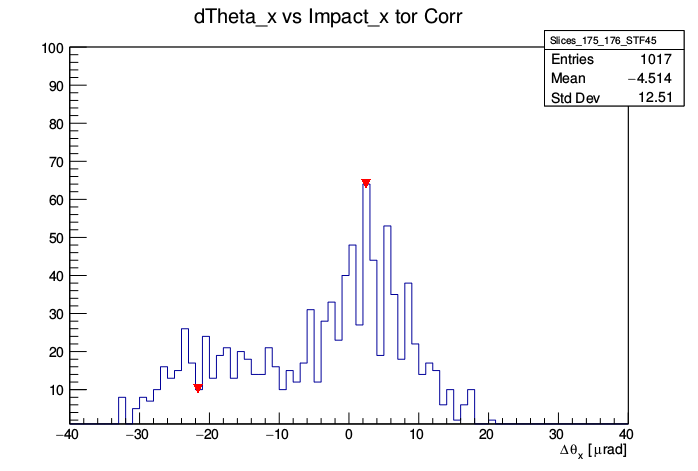
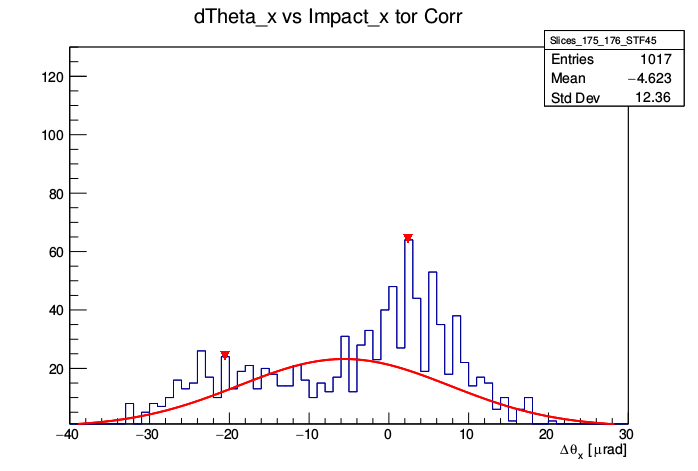
Various stuff with smoothing, then I will try partial range peak fitting

diff --git a/src/analisi_VRtoAM.C b/src/analisi_VRtoAM.C
@@ -1,4 +1,4 @@
-/*
+ /*
  * analisi_VRtoAM.C
  *
  *  Created on: Nov 24, 2016
@@ -39,7 +39,7 @@ void analisi_VRtoAM() {
 	using namespace std;
 	using mions::slices;
 
-	auto deltaslice = 1; //[murad]
+	auto deltaslice = 2; //[murad]
 	system( "rm -f Varie/Video/*.png" );
 	system( "rm -f Varie/Video/GIF_slices.gif" );
 	vector<TH1D*> vhist;
@@ -67,9 +67,9 @@ void analisi_VRtoAM() {
 
 
 	// First gaussian
-	TF1* fVR = new TF1( "fVR", "gaus", -40, 40 );
+	TF1* fVR = new TF1( "fVR", "gaus", -40, 30 );
 	// Second gaussian
-	TF1* fAM = new TF1( "fAM", "gaus", -40, 40 );
+	TF1* fAM = new TF1( "fAM", "gaus", -40, 30 );
 
 	hVR->Fit( fVR, "IREM+" );
 	hAM->Fit( fAM, "IREM+" );
@@ -134,8 +134,9 @@ void analisi_VRtoAM() {
 
 	//auto i = 5;
 	vector<TH1D*> vhTRANS(24);
-	for (auto i = 0; i < 24; i=i+1)
+	for (auto i = 0; i < 24; ++i)
 	{
+		cout << "ii: " << i <<endl;
 		auto& hTRANS = vhTRANS[i];
 		//TODO fit totale
 
@@ -145,33 +146,71 @@ void analisi_VRtoAM() {
 
 		//hTRANS->Scale(1.0/hTRANS->Integral()); c1
 		//TF1* fVRAM = new TF1( "fVRAM", "[0]*exp(-0.5 * std::pow( ( x-[1]) / [2], 2) ) + (1-[0])*exp(-0.5 * std::pow( ( x-[4]) / [5], 2) )", -40, 40 );
-		TF1* fVRAM = new TF1( "fVRAM", "gaus(0) + gaus(3)", -40, 40 );
+		TF1* fVRAMdoub = new TF1( "fVRAM", "gaus(0) + gaus(3)", -40, 30 );
+		TF1* fVRAMsing = new TF1( "fVRAM", "gaus(0)", -40, 30 );
+
 
 		//hTRANS->Smooth();
+		// Markov Smoothing
+		TSpectrum *smoother = new TSpectrum( 4 ); // Random 4, I don't think is needed here.
+		auto nbinsTRANS = hTRANS->GetXaxis()->GetLast();
+		DBG( std::clog << "nbinsTRANS: " << nbinsTRANS << std::endl; , ; )
+		Double_t* dataTRANS = new Double_t[nbinsTRANS];
+		for (auto i = 0; i < nbinsTRANS; i++) dataTRANS[i] = hTRANS->GetBinContent(i + 1);
 
+		TH1D *hSmooth = (TH1D*)(hTRANS->Clone());
+		hSmooth->SetLineColor(kGreen);
+		smoother->SmoothMarkov(dataTRANS,nbinsTRANS,3); //3, 7, 10
+		for (auto i = 0; i < nbinsTRANS; i++) hSmooth->SetBinContent(i + 1,dataTRANS[i]);
+
+
+
+
+
+		//Peak search
 		auto npeaks = 2;
-		auto expectedsigma = 5; // A little smaller through
+		auto expectedsigma = 4; // A little smaller through
 		auto thresoldpeaks = 0.10; // Minimum peak height relative to max bin
 		TSpectrum *s = new TSpectrum( 2 * npeaks );
 		Int_t nfound = s->Search( hTRANS, expectedsigma, "", thresoldpeaks );
-		printf( "Found %d candidate peaks to fit\n", nfound );
+		printf( "Found %d candidate peaks in hTRANS to fit\n", nfound );
 		s->Print();
-		if (nfound != npeaks) {
-			cerr << "[ERROR]: Found " << nfound << "peaks "
-					"instead of 2"<< endl;
-		//	return;
-		}
-		//Estimate background using TSpectrum::Background
-		//TH1 *hb = s->Background(h,20,"same");
-		//if (hb) c1->Update();
-		//if (np <0) return;
-
 		Double_t *xpeaks = s->GetPositionX();
 		Double_t *ypeaks = s->GetPositionY();
 
 
+		//Peak search smooth
+		TSpectrum *s_sm = new TSpectrum( 2 * npeaks );
+		Int_t nfound_sm = s_sm->Search( hSmooth, expectedsigma, "", thresoldpeaks );
+		printf( "Found %d candidate peaks in hSmooth to fit\n", nfound_sm );
+		s_sm->Print();
+		Double_t *xpeaks_sm = s_sm->GetPositionX();
+		Double_t *ypeaks_sm = s_sm->GetPositionY();
 
-/*
+
+		auto& fVRAM = nfound == 1 ? fVRAMsing : fVRAMdoub;
+		if (nfound != 1 and nfound != 2 ) {
+			cerr << "[ERROR]: Found " << nfound << " peaks "
+					"instead of 1 or 2"<< endl;
+			cerr << "[ERROR]: Found " << nfound_sm << " smoothed peaks "
+								"instead of 1 or 2"<< endl;
+
+			return;
+		} else {
+					cerr << "[LOG] Found " << nfound << "peak(s)" << endl;
+					cerr << "[LOG] Found " << nfound_sm << " smoothed peak(s)" << endl;
+				//	return;
+		}
+
+
+
+
+
+
+
+
+
+
 
 //		//Set parameters, pars from 0 to 2 are from VR, pars from 3 to 5 are from AM
 		auto startconst = hTRANS->Integral();
@@ -183,24 +222,54 @@ void analisi_VRtoAM() {
 //			fVRAM->SetParameter(i,parVR[i]);
 //			fVRAM->SetParameter(i+3,parAM[i]);
 //		}
+
+/*
 		fVRAM->SetParameter(0,ypeaks[0]);
 		fVRAM->SetParameter(1,xpeaks[0]);
-		fVRAM->SetParameter(2,expectedsigma+1);
+		fVRAM->SetParameter(2,expectedsigma+4);
 
-		fVRAM->SetParameter(3,ypeaks[1]);
-		fVRAM->SetParameter(4,ypeaks[1]);
-		fVRAM->SetParameter(5,expectedsigma+1);
-
+		if (nfound == 2) {
+			fVRAM->SetParameter(3,ypeaks[1]);
+			fVRAM->SetParameter(4,ypeaks[1]);
+			fVRAM->SetParameter(5,expectedsigma+4);
+		}
 */
+
+		fVRAM->SetParameter(0,ypeaks[0]);
+		fVRAM->SetParameter(1,xpeaks[0]);
+		fVRAM->SetParameter(2,expectedsigma+4);
+
+		if (nfound == 2) {
+			fVRAM->SetParameter(3,ypeaks[1]);
+			fVRAM->SetParameter(4,ypeaks[1]);
+			fVRAM->SetParameter(5,expectedsigma+2);
+		}
+
+
+
+
 
 
 		TCanvas* c_fitVRAM = new TCanvas("c_fitVRAM","c_fitVRAM");
 		c_fitVRAM->cd();
 
 		//hTRANS->Smooth();
-		//hTRANS->Fit( fVRAM, "IREM+" );
 
-		hTRANS->Draw();
+
+
+		//hSmooth->Fit( fVRAM, "IREM+" );
+		//hSmooth->Draw("SAME");
+
+		//Partial fit
+		TF1* fVRpre = new TF1( "fVRAM", "gaus(0)", -40, 30 );
+		TF1* fAMpre = new TF1( "fVRAM", "gaus(0)", -40, 30 );
+		// TODO usare sort o set per ordinare i picchi, quello piu' a destra e' VR
+
+
+
+		//Total fit
+		hTRANS->Fit( fVRAM, "REM+" );
+		hTRANS->Draw("SAME");
 
 		string nomehisto = hTRANS->GetName();
 		auto nomefilepng = "Varie/Video/" + nomehisto + ".png";
@@ -209,15 +278,19 @@ void analisi_VRtoAM() {
 		//std::this_thread::sleep_for(std::chrono::milliseconds(1500));
 
 		TF1 *fitResultVRAM = hTRANS->GetFunction( "fVRAM" );
+		//TF1 *fitResultVRAM = hSmooth->GetFunction( "fVRAM" );
 		if (!fitResultVRAM) {
 			cerr << "[ERROR]: Did not fit" << endl;
 			cerr << "[ERROR]: i: " << i << endl;
-			hTRANS->Draw();
+			hSmooth->Draw();
+			hTRANS->Draw("SAME");
+
 			return;
 		}
 
 		//TFitResultPtr fit_hTRANS = hTRANS->Fit( fVRAM, "IREM+" );
 
+/*
 		// Parameters of the two peaks during transition
 		// In an array and also as named variables
 		Double_t parVRAM[6] = { 0 };
@@ -233,14 +306,14 @@ void analisi_VRtoAM() {
 
 
 		// First gaussian PEAK
-		TF1* fVR2 = new TF1( "fVR", "gaus", -40, 40 );
+		TF1* fVR2 = new TF1( "fVR2", "gaus", -40, 40 );
 		// Second gaussian PEAK. The sum of the two is fVRAM
-		TF1* fAM2 = new TF1( "fAM", "gaus", -40, 40 );
+		TF1* fAM2 = new TF1( "fAM2", "gaus", -40, 40 );
 
 		//Get the parameters for the peaks from fVRAM
-		for (int i = 0; i < 3; ++i) {
-			fVR2->SetParameter(i,parVRAM[i]);
-			fAM2->SetParameter(i,parVRAM[i+3]);
+		for (auto j = 0; j < 3; ++j) {
+			fVR2->SetParameter(j,parVRAM[j]);
+			fAM2->SetParameter(j,parVRAM[j+3]);
 		}
 
 
@@ -254,6 +327,8 @@ void analisi_VRtoAM() {
 		cout << "int_fAM2: " << int_fAM2 << endl;
 
 		cout << "eff: " << int_fVR2 / int_fAM2  << endl;
+		cout << "if: " << i <<endl;
+*/
 
 	}
 

diff --git a/src/slices.C b/src/slices.C
@@ -90,8 +90,8 @@ void slices(Double_t cut1, Double_t cut2, TH1D*& hist, bool makepng) {
 	auto histogram = (TH1D*) (h2D->ProjectionY( titlehisto.c_str(), bincut1, bincut2 ));
 	//h5->GetXaxis()->SetTitle( "#Delta#theta_{x} [#murad]" );
 	histogram->Rebin( 1 );
-	histogram->GetXaxis()->SetRangeUser(-40,40);
-	histogram->GetYaxis()->SetRangeUser(1,100);
+	histogram->GetXaxis()->SetRangeUser(-40,30);
+	histogram->GetYaxis()->SetRangeUser(1,130);
 
 	hist = histogram;
 	if (makepng) {
